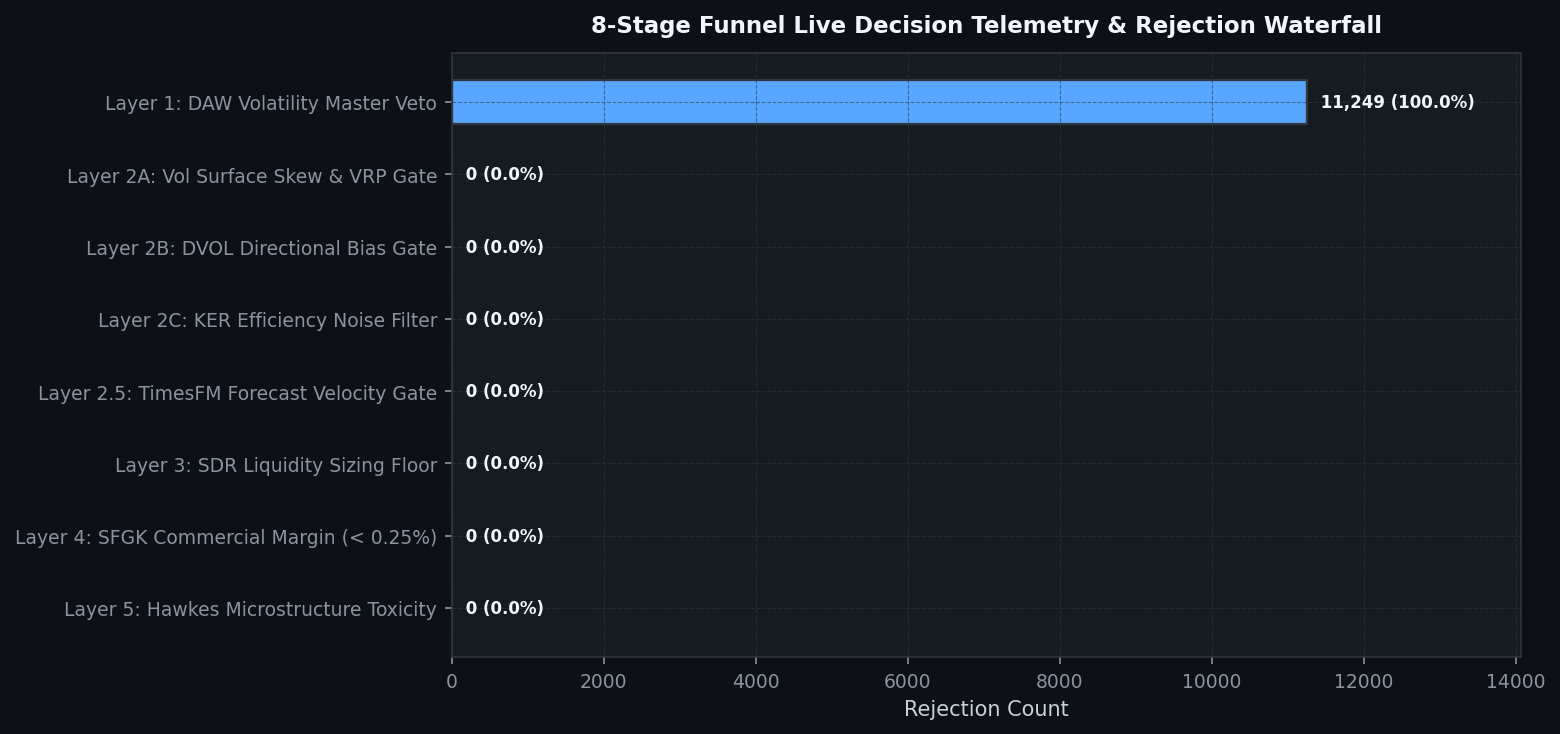
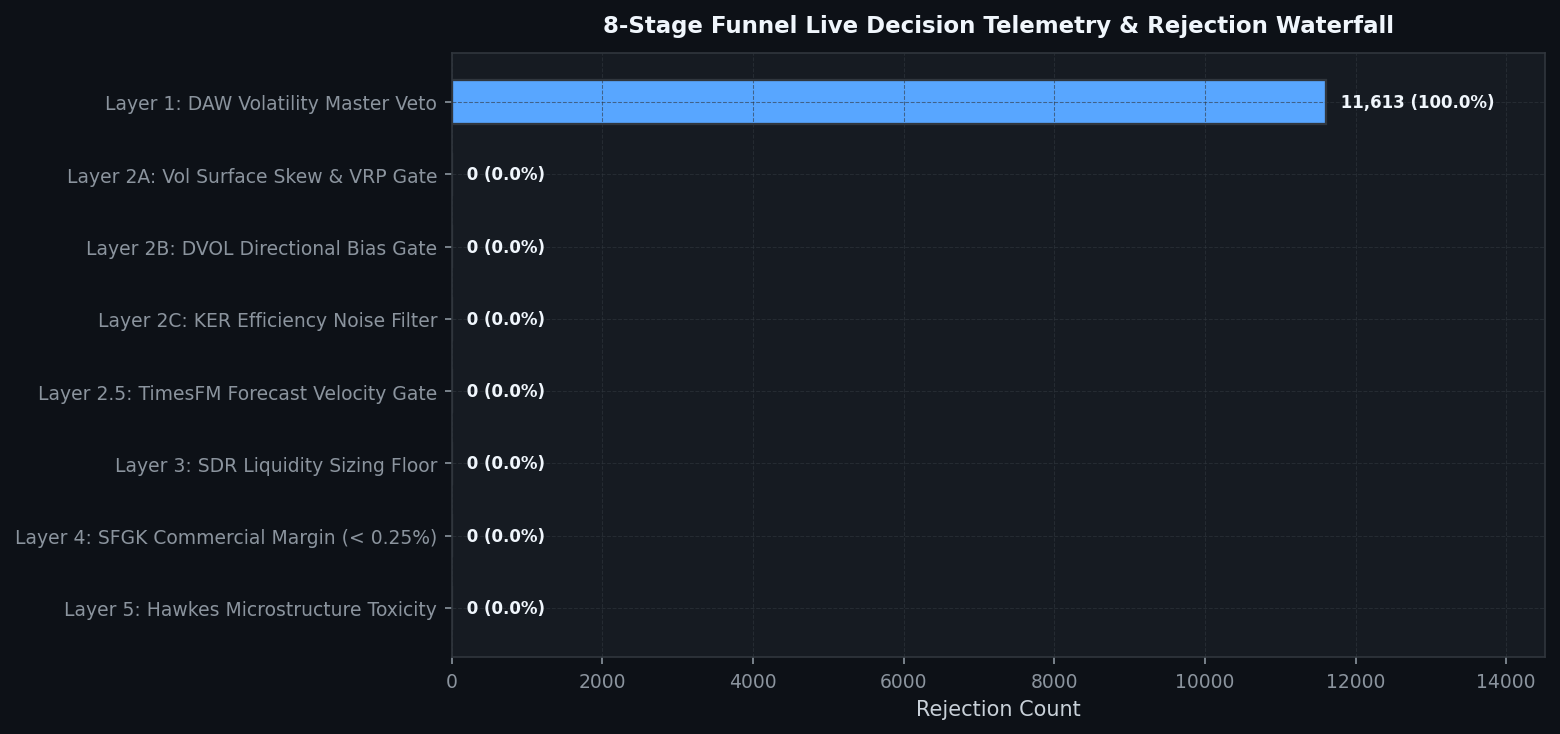
[coinbase] Hourly Status & Visual Intelligence Update: 2026-08-15 03:30:15

diff --git a/coinbase/data/hourly_status_report.md b/coinbase/data/hourly_status_report.md
@@ -1,5 +1,5 @@
 # 🛡 Unified Trading System Hourly Status & Visual Intelligence
-> **Report Generated**: `2026-08-15 03:11:39 AM PDT (2026-08-15 10:11:39 UTC)`  
+> **Report Generated**: `2026-08-15 03:29:54 AM PDT (2026-08-15 10:29:54 UTC)`  
 > **System Health**: **🟡 DEGRADED / RESTRICTED** | **Win Rate**: `0.0%` | **Completed Trades**: `0`
 
 ---
@@ -8,13 +8,13 @@ Real-time Deribit implied volatility (DVOL) proxy tracking against mathematicall
 
 | Symbol | Proxy Oracle | Live Z-Score | Optimal Limit (YSP) | Safety Margin | Live VRP | Optimal VRP (YSP) | DAW Safety Verdict |
 | :--- | :--- | :--- | :--- | :--- | :--- | :--- | :--- |
-| `AVAX-USD` | DVOL_BTC | **+0.11** | **-0.50** | **+0.61** | **+15.02** | 5.0 | 🔴 DAW VETOED |
-| `ETH-USD` | DVOL_ETH | **-0.86** | **-0.50** | **-0.36** | **+27.32** | 5.0 | 🔴 DAW VETOED |
-| `ADA-USD` | DVOL_BTC | **+0.11** | **-0.50** | **+0.61** | **+15.02** | 5.0 | 🔴 DAW VETOED |
-| `DOGE-USD` | DVOL_BTC | **+0.11** | **-0.50** | **+0.61** | **+15.02** | 5.0 | 🔴 DAW VETOED |
-| `BTC-USD` | DVOL_BTC | **+0.11** | **-0.50** | **+0.61** | **+15.02** | 5.0 | 🔴 DAW VETOED |
-| `LINK-USD` | DVOL_BTC | **+0.11** | **-0.50** | **+0.61** | **+15.02** | 5.0 | 🔴 DAW VETOED |
-| `SOL-USD` | DVOL_BTC | **+0.11** | **-0.50** | **+0.61** | **+15.02** | 5.0 | 🔴 DAW VETOED |
+| `AVAX-USD` | DVOL_BTC | **+0.13** | **-0.50** | **+0.63** | **+15.02** | 5.0 | 🔴 DAW VETOED |
+| `ETH-USD` | DVOL_ETH | **-0.59** | **-0.50** | **-0.09** | **+27.35** | 5.0 | 🔴 DAW VETOED |
+| `ADA-USD` | DVOL_BTC | **+0.13** | **-0.50** | **+0.63** | **+15.02** | 5.0 | 🔴 DAW VETOED |
+| `DOGE-USD` | DVOL_BTC | **+0.13** | **-0.50** | **+0.63** | **+15.02** | 5.0 | 🔴 DAW VETOED |
+| `BTC-USD` | DVOL_BTC | **+0.13** | **-0.50** | **+0.63** | **+15.02** | 5.0 | 🔴 DAW VETOED |
+| `LINK-USD` | DVOL_BTC | **+0.13** | **-0.50** | **+0.63** | **+15.02** | 5.0 | 🔴 DAW VETOED |
+| `SOL-USD` | DVOL_BTC | **+0.13** | **-0.50** | **+0.63** | **+15.02** | 5.0 | 🔴 DAW VETOED |
 
 ![DVOL Market Regime](./images/dvol_regime_timeline.png)
 
@@ -44,12 +44,12 @@ We hereby certify that the mission-critical algorithmic data assets uploaded by 
 
 | Status | Data Asset | Freshness / State | Details / Timestamp |
 | :---: | :--- | :--- | :--- |
-| ✅ | **Go-List JSON** | Fresh (44.05h old) | 08-13 07:08 |
-| ✅ | **TimesFM Forecasts** | Fresh (3.16h old) | 08-15 00:02 |
-| ✅ | **Holding Times config** | Fresh (65.54h old) | 08-12 09:39 |
-| ✅ | **BTC DVOL Cache** | Fresh (0.00h old) | 08-15 03:11 |
-| ✅ | **ETH DVOL Cache** | Fresh (0.00h old) | 08-15 03:11 |
-| ✅ | **Live Trading Telemetry** | Fresh (0.00h old) | 08-15 03:11 |
+| ✅ | **Go-List JSON** | Fresh (44.35h old) | 08-13 07:08 |
+| ✅ | **TimesFM Forecasts** | Fresh (3.47h old) | 08-15 00:02 |
+| ✅ | **Holding Times config** | Fresh (65.84h old) | 08-12 09:39 |
+| ✅ | **BTC DVOL Cache** | Fresh (0.00h old) | 08-15 03:30 |
+| ✅ | **ETH DVOL Cache** | Fresh (0.00h old) | 08-15 03:30 |
+| ✅ | **Live Trading Telemetry** | Fresh (0.00h old) | 08-15 03:30 |
 
 <br>
 
@@ -62,7 +62,7 @@ Layer-by-layer tick evaluation waterfall and asset-specific performance tracking
 
 | Funnel Filter Layer | Total Rejections | % of Rejections |
 | :--- | :--- | :--- |
-| Layer 1: DAW Causal Volatility Veto | `11,249` | **100.0%** |
+| Layer 1: DAW Causal Volatility Veto | `11,613` | **100.0%** |
 | Layer 2A: Vol Surface Skew & VRP Gate | `0` | **0.0%** |
 | Layer 2B: DVOL Directional Momentum Bias | `0` | **0.0%** |
 | Layer 2C: KER Efficiency Noise Filter | `0` | **0.0%** |
@@ -111,14 +111,14 @@ Live balance sheet and open maker liquidity positions from Coinbase CDP.
 ## 4. 🤖 Foundation Model MLOps & Pipeline Orchestration
 Weekly Algorithmic Mega Cap selection, Zero-shot multi-step forward return forecasts, and VSTEF parameter grid search status.
 
-- **TimesFM Forecast DB**: 🟢 Updated 3.2h ago (2026-08-15 12:02 AM PDT)
+- **TimesFM Forecast DB**: 🟢 Updated 3.5h ago (2026-08-15 12:02 AM PDT)
 - **Last Weekly VSTEF Optimization**: `2026-08-05 09:22:38 AM PDT`
-- **Next Scheduled VSTEF Run**: `2026-08-16 07:00:00 PM PDT (Monday 02:00 UTC)` (Countdown: **39.8h (1d 15h 48m)**)
+- **Next Scheduled VSTEF Run**: `2026-08-16 07:00:00 PM PDT (Monday 02:00 UTC)` (Countdown: **39.5h (1d 15h 30m)**)
 - **Promoted Parameter Gates**: $Z_{DVOL} \le -0.5$ | Holding Horizon $= 12\text{h}$
 
 ### Algorithmic Mega Cap Selection
 - **Last Run (Confirmation)**: `Never`
-- **Next Scheduled Run**: `2026-08-16 06:00:00 PM PDT (Monday 01:00 UTC)` (Countdown: **38.8h (1d 14h 48m)**)
+- **Next Scheduled Run**: `2026-08-16 06:00:00 PM PDT (Monday 01:00 UTC)` (Countdown: **38.5h (1d 14h 29m)**)
 - **Selected Mega Cap Universe**: `Could not fetch active universe from EC2`
 
 ![TimesFM Forecast Matrix](./images/timesfm_forecast_matrix.png)
@@ -132,19 +132,19 @@ Visualizing the impact of the VSTEF (Volatility-Synchronized Stop-Tightening Exe
 ## 5. 🖥 Multi-Node Infrastructure & Watchdog Matrix
 ```text
 ================================================================================
-   🛡  SFGK FUNNEL GUARDIAN WATCHDOG (HFT ONLY) |  10:11:40 AM
-   CPU:  16.2%  |  MEM:   6.0% (14.5GB / 15.4GB Free)
+   🛡  SFGK FUNNEL GUARDIAN WATCHDOG (HFT ONLY) |  10:29:53 AM
+   CPU:   5.9%  |  MEM:   5.3% (14.6GB / 15.4GB Free)
 ================================================================================
 SERVICE              | PID      | STATUS          | RESTARTS | INFO
 --------------------------------------------------------------------------------
 L3 Consumer          | 3640267  | RUNNING         | -        | Continuous Websocket Feed
-Trader AVAX-USD      | 3669036  | RUNNING         | 93       | Evaluating Funnel/Polling Order
-Trader ETH-USD       | 3669037  | RUNNING         | 93       | Evaluating Funnel/Polling Order
-Trader ADA-USD       | 3669038  | RUNNING         | 93       | Evaluating Funnel/Polling Order
-Trader DOGE-USD      | 3669039  | RUNNING         | 93       | Evaluating Funnel/Polling Order
-Trader BTC-USD       | 3669040  | RUNNING         | 93       | Evaluating Funnel/Polling Order
-Trader LINK-USD      | 3669041  | RUNNING         | 93       | Evaluating Funnel/Polling Order
-Trader SOL-USD       | 3669042  | RUNNING         | 93       | Evaluating Funnel/Polling Order
+Trader AVAX-USD      | 3684511  | COOL-DOWN       | 144      | Next run in 9.7s
+Trader ETH-USD       | 3684512  | COOL-DOWN       | 144      | Next run in 9.7s
+Trader ADA-USD       | 3684513  | COOL-DOWN       | 144      | Next run in 9.7s
+Trader DOGE-USD      | 3684514  | COOL-DOWN       | 144      | Next run in 9.7s
+Trader BTC-USD       | 3684515  | COOL-DOWN       | 144      | Next run in 9.7s
+Trader LINK-USD      | 3684516  | COOL-DOWN       | 144      | Next run in 9.7s
+Trader SOL-USD       | 3684517  | COOL-DOWN       | 144      | Next run in 9.7s
 ================================================================================
 ```
 
